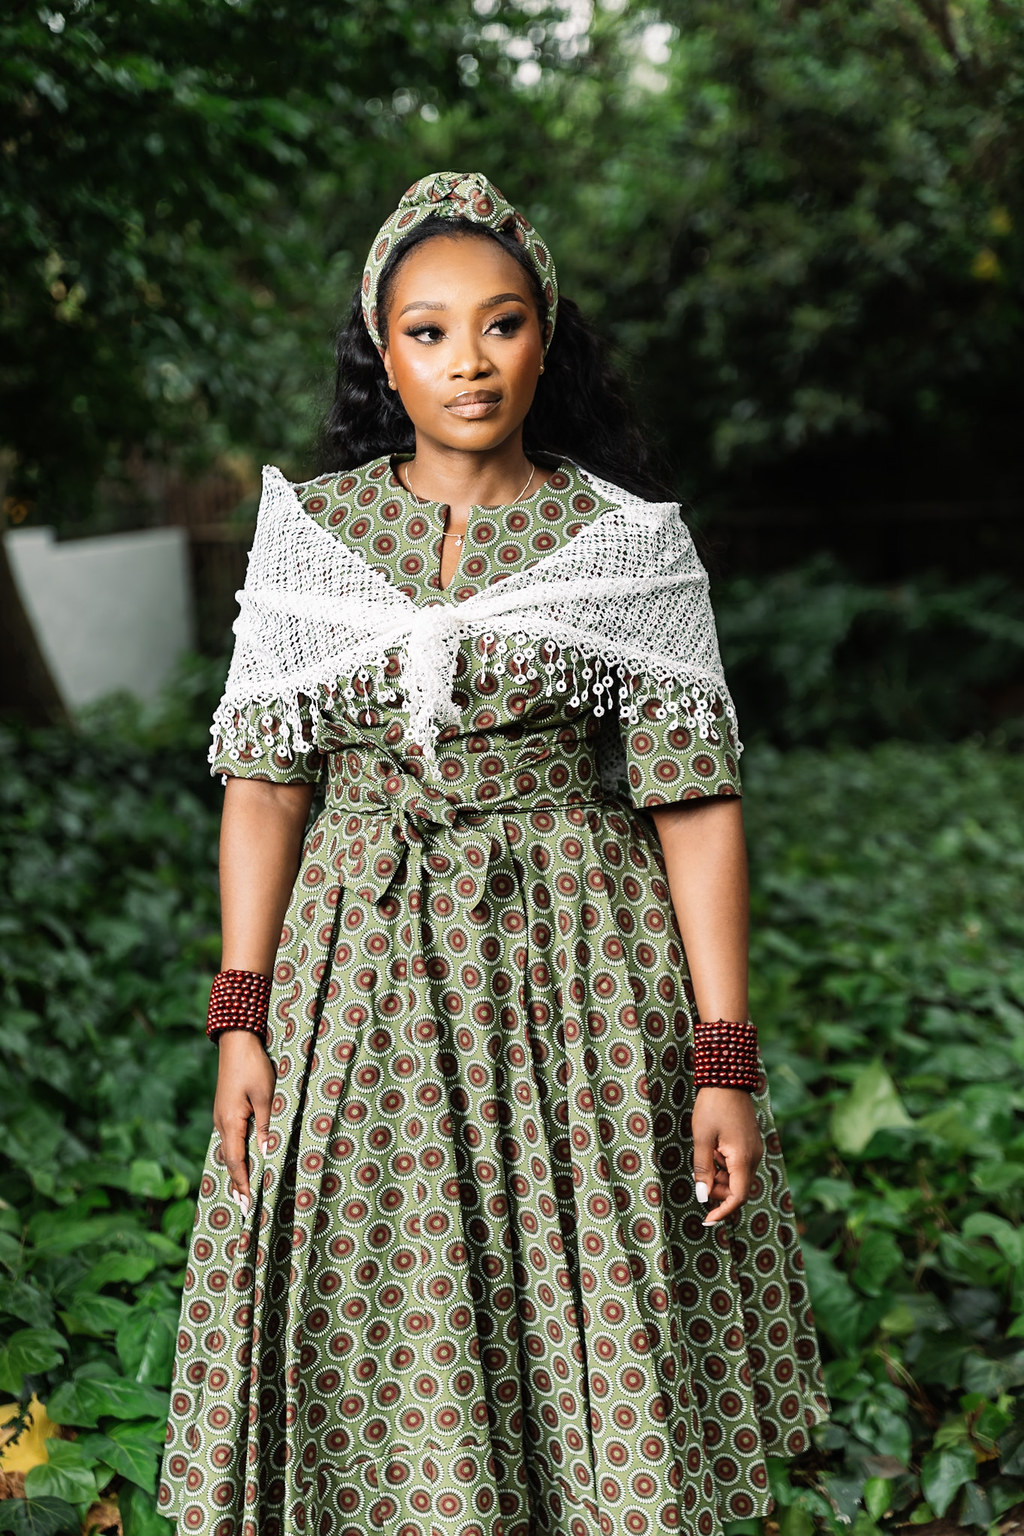
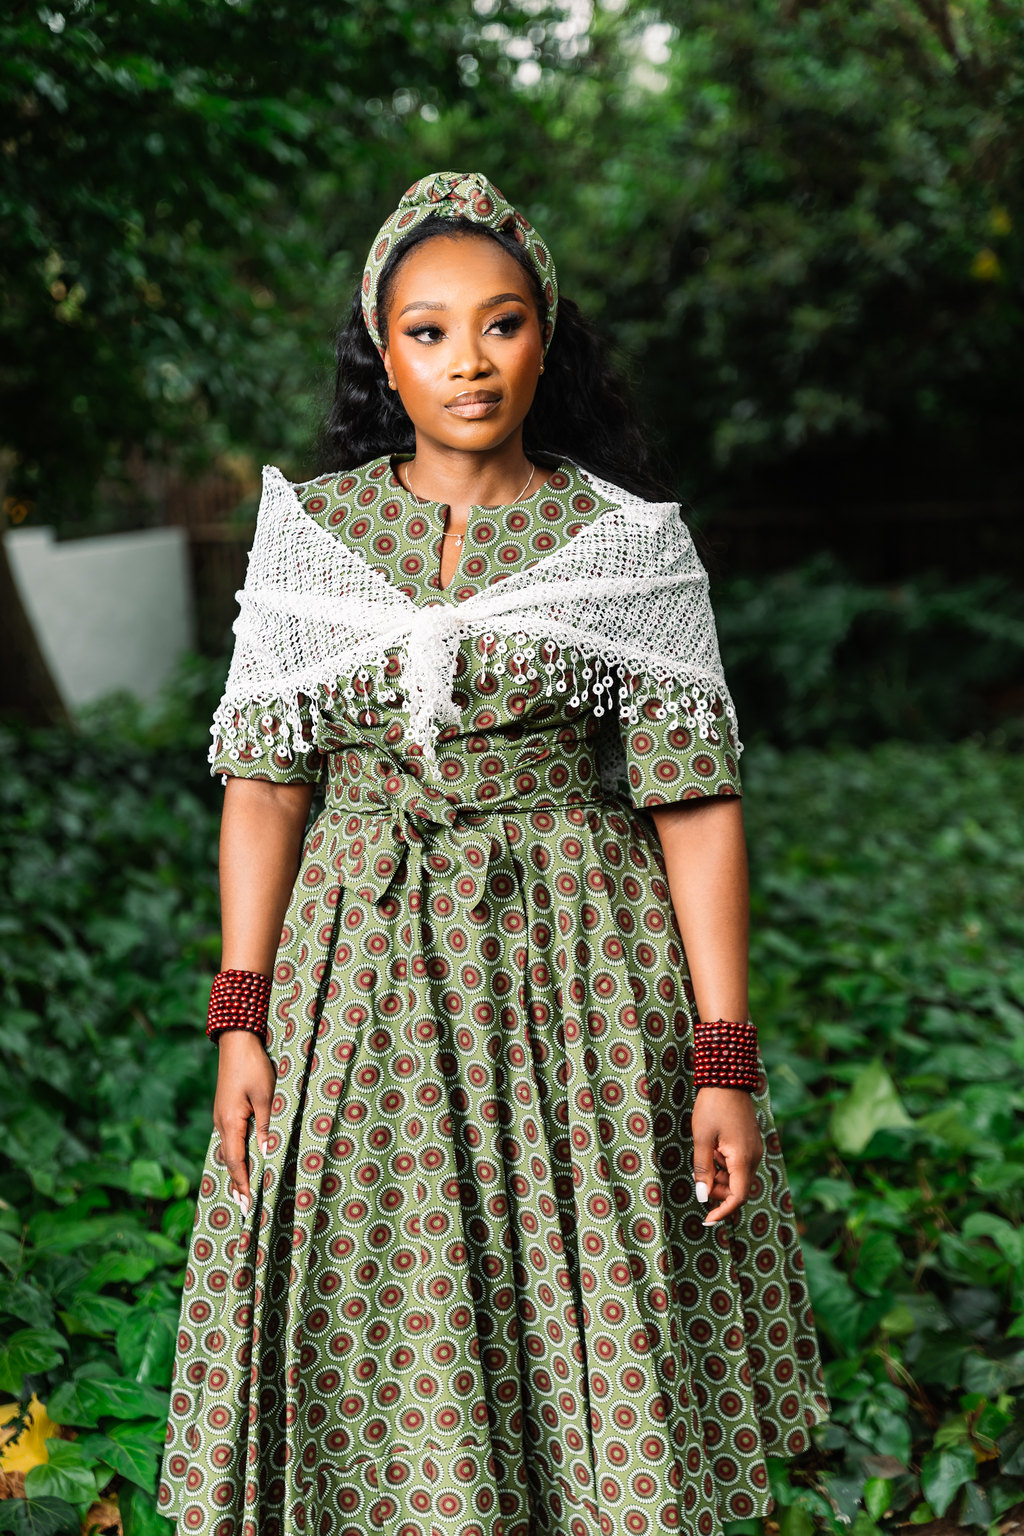
Lobola: swap in 2400px photos, expand to 9 images (#6)
Replaces the earlier 1365px lobola set with 2400px exports. Hero gets 4
lobola slides, home gallery 5, Portfolio Lobola category all 9 with
responsive srcSet in the grid and full size in the lightbox.

Claude-Session: https://claude.ai/code/session_01T6UXqWZghMsq181AYbd4ps

diff --git a/src/pages/Home.jsx b/src/pages/Home.jsx
@@ -43,41 +43,44 @@ const local = (name, widths) => ({
 const heroSlides = [
   { ...local('portrait-sportscar', [800, 1400, 2400]), alt: 'Portrait of a young man in a suit seated in a blue sports car', label: 'Portraits', pos: '50% 40%' },
   { ...w2('22e3962a0016a59371959df425b02d38'), alt: 'Bride and groom sharing a kiss at their wedding', label: 'Weddings', pos: '50% 30%' },
-  { ...local('lobola-shweshwe-portrait', [640, 1024, 1365]), alt: 'Lobola portrait in a green shweshwe dress, white lace shawl and matching headwrap', label: 'Lobola', pos: '50% 22%' },
+  { ...local('lobola-portrait-hands', [640, 1024, 1600]), alt: 'Lobola portrait in a green shweshwe dress, white lace shawl and wooden bead cuffs', label: 'Lobola', pos: '50% 24%' },
   { ...px('4c7e470f347219005082063e353df3c6'), alt: 'Portrait in a green dress with butterflies in her hair', label: 'Portraits', pos: '50% 48%' },
   { ...w1('dee9e86bd1d00cf1ab65492d079d2dc1'), alt: 'Bride in her gown and veil on the wedding morning', label: 'Weddings', pos: '50% 22%' },
   { ...local('matric-couple-black', [640, 1100, 1714]), alt: 'Matric dance couple at golden hour, she in a black off-shoulder gown', label: 'Matric Dance', pos: '50% 10%' },
+  { ...local('lobola-couple-embrace', [640, 1024, 1465]), alt: 'Couple embracing under a bottlebrush tree at their lobola', label: 'Lobola', pos: '50% 22%' },
   { ...w1('7595be4ca74f9ee38dd32ef7822ad8bd'), alt: 'Bride reading her letter on the wedding morning', label: 'Weddings', pos: '50% 38%' },
-  { ...local('lobola-couple', [640, 1024, 1365]), alt: 'Couple at their lobola celebration, she in a green shweshwe dress', label: 'Lobola', pos: '50% 18%' },
   { ...px('8b064709835a34b21aba22f4a48f292b'), alt: 'Portrait in dramatic natural light', label: 'Portraits', pos: '50% 43%' },
   { ...w1('11bc9e3fd04edffa0e480016316e2456'), alt: 'Bride putting on her earrings', label: 'Weddings', pos: '50% 24%' },
+  { ...local('lobola-family-laughing', [640, 1024, 1661]), alt: 'Laughing with family at the lobola, an elder in red and blue traditional dress', label: 'Lobola', pos: '50% 20%' },
   { ...local('matric-black-gown', [640, 1100, 1714]), alt: 'Matric dance portrait in a beaded black gown, seated', label: 'Matric Dance', pos: '50% 21%' },
   { ...px('edc40b2fae11499f30bcac47d2d9a565'), alt: 'Backlit portrait in the park at golden hour', label: 'Portraits', pos: '50% 37%' },
-  { ...local('lobola-shweshwe-standing', [640, 1024, 1365]), alt: 'Lobola portrait in a green shweshwe dress among the trees', label: 'Lobola', pos: '50% 20%' },
+  { ...local('lobola-shweshwe-standing', [640, 1024, 1600]), alt: 'Lobola portrait in a green shweshwe dress among the trees', label: 'Lobola', pos: '50% 20%' },
 ];
 
 const work = [
   { ...w2('ef10b35cf9800c88aa5d8356d84a570f'), alt: 'Bride in her full wedding gown', cat: 'Weddings' },
+  { ...local('lobola-portrait-hands', [640, 1024, 1600]), alt: 'Lobola portrait in a green shweshwe dress, white lace shawl and wooden bead cuffs', cat: 'Lobola', ratio: '1600 / 2400' },
   { src: `${F}f17a7f633_m4.jpg`, alt: 'Matric dance portrait, beaded gown with corset back', cat: 'Matric Dance' },
-  { ...local('lobola-shweshwe-portrait', [640, 1024, 1365]), alt: 'Lobola portrait in a green shweshwe dress, white lace shawl and matching headwrap', cat: 'Lobola', ratio: '1365 / 2048' },
   { src: `${M}d0c463f82_DSC_4127.jpg`, alt: 'Corporate portrait in a luxury interior', cat: 'Corporate' },
   { src: `${M}922435be1_DSC_4228.jpg`, alt: 'Graduation portrait', cat: 'Graduations' },
+  { ...local('lobola-couple-hands', [640, 1024, 1551]), alt: 'Couple holding hands on the lawn at their lobola', cat: 'Lobola', ratio: '1551 / 2400' },
   { ...px('fa1a43cc250efd88003bc5da98382de8'), alt: 'Expressive individual portrait', cat: 'Portraits' },
   { ...local('portrait-sportscar', [800, 1400, 2400]), alt: 'Portrait of a young man in a suit seated in a blue sports car', cat: 'Portraits', ratio: '2576 / 1714' },
   { src: `${F}ea0215502_m8.jpg`, alt: 'Matric dance couple overlooking the lake at sunset', cat: 'Matric Dance' },
   { ...local('matric-couple-black', [640, 1100, 1714]), alt: 'Matric dance couple at golden hour, she in a black off-shoulder gown', cat: 'Matric Dance', ratio: '1714 / 2576' },
   { ...local('matric-black-gown', [640, 1100, 1714]), alt: 'Matric dance portrait in a beaded black gown, seated', cat: 'Matric Dance', ratio: '1714 / 2576' },
-  { ...local('lobola-couple', [640, 1024, 1365]), alt: 'Couple at their lobola celebration, she in a green shweshwe dress', cat: 'Lobola', ratio: '1365 / 2048' },
   { ...px('ba20179241b13dc570b3d7c663e22bf5'), alt: 'Candid lifestyle portrait', cat: 'Portraits' },
+  { ...local('lobola-family-laughing', [640, 1024, 1661]), alt: 'Laughing with family at the lobola, an elder in red and blue traditional dress', cat: 'Lobola', ratio: '1661 / 2400' },
   { ...px('fde31b87e7a08b619d812341fa6ee77d'), alt: 'Seated portrait in a green dress', cat: 'Portraits' },
   { ...px('fc208e0a9a611c89ddb44428f0816e80'), alt: 'Full-length portrait in a green dress on the lawn', cat: 'Portraits' },
   { ...px('c9a5b988d05edf52676ed4195442e3f9'), alt: 'Thoughtful portrait with butterflies in her hair', cat: 'Portraits' },
   { ...px('edc40b2fae11499f30bcac47d2d9a565'), alt: 'Backlit portrait in the park at golden hour', cat: 'Portraits' },
-  { ...local('lobola-shweshwe-standing', [640, 1024, 1365]), alt: 'Lobola portrait in a green shweshwe dress among the trees', cat: 'Lobola', ratio: '1365 / 2048' },
   { ...w2('5be27fdc4bf37b0e4e76c80714385d2b'), alt: 'Bride and groom walking together', cat: 'Weddings' },
+  { ...local('lobola-couple-embrace', [640, 1024, 1465]), alt: 'Couple embracing under a bottlebrush tree at their lobola', cat: 'Lobola', ratio: '1465 / 2400' },
   { ...w1('d416537229004fc4ae8c488a62b7f93a'), alt: 'Bride under her veil', cat: 'Weddings', ratio: '1600 / 2450' },
   { ...w1('cb9e044827d97b4540114584471caf95'), alt: 'Groom adjusting his bow tie', cat: 'Weddings', ratio: '1600 / 2820' },
   { ...w1('ac6e9df0f74c8dbc38e4dbc4b8bc8bd9'), alt: 'Bride in her robe on the wedding morning', cat: 'Weddings' },
+  { ...local('lobola-portrait-smile', [640, 1024, 1600]), alt: 'Close lobola portrait, hand on her shoulder, red bead cuffs', cat: 'Lobola', ratio: '1600 / 2400' },
   { ...w2('762b97c477d265fb8214dec56617e560'), alt: 'Bride and groom outdoors on their wedding day', cat: 'Weddings' },
   { src: `${M}b6065684a_DSC_4113.jpg`, alt: 'Corporate portrait of a man in a navy suit', cat: 'Corporate' },
   { src: `${M}7dbd77260_DSC_4354.jpg`, alt: 'Graduation portrait outdoors', cat: 'Graduations' },
@@ -88,7 +91,7 @@ const filters = ['All', 'Weddings', 'Lobola', 'Portraits', 'Corporate', 'Graduat
 // Services index: one photo per service for the cursor-following preview
 const services = [
   { path: '/wedding-photographer-johannesburg', label: 'Weddings', tag: 'Photo + film', blurb: 'Full-day stills, drone aerials and a behind-the-scenes reel, in one consistent style.', ...w2('ef10b35cf9800c88aa5d8356d84a570f'), pos: '50% 20%' },
-  { path: '/traditional-wedding-photographer', label: 'Traditional & Lobola', tag: 'Ceremonies', blurb: 'Lobola, umembeso and umabo covered with respect for the protocol and the families.', ...local('lobola-shweshwe-portrait', [640, 1024, 1365]), pos: '50% 22%' },
+  { path: '/traditional-wedding-photographer', label: 'Traditional & Lobola', tag: 'Ceremonies', blurb: 'Lobola, umembeso and umabo covered with respect for the protocol and the families.', ...local('lobola-portrait-hands', [640, 1024, 1600]), pos: '50% 24%' },
   { path: '/matric-dance-photographer', label: 'Matric Dance', tag: 'Portraits', blurb: 'Prep, the red-carpet arrival and the golden-hour portraits you will keep forever.', ...local('matric-couple-black', [640, 1100, 1714]), pos: '50% 15%' },
   { path: '/graduation-photoshoot-johannesburg', label: 'Graduations', tag: 'Campus + studio', blurb: 'Wits, UJ, UP and UNISA grads, on campus, in studio or in the golden hour.', src: `${M}922435be1_DSC_4228.jpg`, pos: '50% 20%' },
   { path: '/birthday-photoshoot-johannesburg', label: 'Birthdays', tag: 'Studio', blurb: '21sts, 30ths, umemulo and every milestone, styled from classy to editorial.', ...px('fa1a43cc250efd88003bc5da98382de8'), pos: '50% 30%' },

diff --git a/src/pages/Portfolio.jsx b/src/pages/Portfolio.jsx
@@ -96,9 +96,15 @@ const placeholderItems = [
   { id: 'h1', category: 'Matric Dance', size: 'large', url: '/images/home/matric-couple-black-1714.jpg', alt: 'Matric dance couple at golden hour, she in a black off-shoulder gown' },
   { id: 'h2', category: 'Matric Dance', size: 'small', url: '/images/home/matric-black-gown-1100.jpg', alt: 'Matric dance portrait in a beaded black gown, seated' },
   // Lobola
-  { id: 'l1', category: 'Lobola', size: 'large', url: '/images/home/lobola-shweshwe-portrait-1365.jpg', alt: 'Lobola portrait in a green shweshwe dress, white lace shawl and matching headwrap' },
-  { id: 'l2', category: 'Lobola', size: 'large', url: '/images/home/lobola-shweshwe-standing-1365.jpg', alt: 'Lobola portrait in a green shweshwe dress among the trees' },
-  { id: 'l3', category: 'Lobola', size: 'large', url: '/images/home/lobola-couple-1365.jpg', alt: 'Couple at their lobola celebration, she in a green shweshwe dress' },
+  { id: 'l1', category: 'Lobola', size: 'large', url: '/images/home/lobola-portrait-hands-1600.jpg', srcSet: '/images/home/lobola-portrait-hands-640.jpg 640w, /images/home/lobola-portrait-hands-1024.jpg 1024w, /images/home/lobola-portrait-hands-1600.jpg 1600w', alt: 'Lobola portrait in a green shweshwe dress, white lace shawl and wooden bead cuffs' },
+  { id: 'l2', category: 'Lobola', size: 'large', url: '/images/home/lobola-couple-embrace-1465.jpg', srcSet: '/images/home/lobola-couple-embrace-640.jpg 640w, /images/home/lobola-couple-embrace-1024.jpg 1024w, /images/home/lobola-couple-embrace-1465.jpg 1465w', alt: 'Couple embracing under a bottlebrush tree at their lobola' },
+  { id: 'l3', category: 'Lobola', size: 'large', url: '/images/home/lobola-family-laughing-1661.jpg', srcSet: '/images/home/lobola-family-laughing-640.jpg 640w, /images/home/lobola-family-laughing-1024.jpg 1024w, /images/home/lobola-family-laughing-1661.jpg 1661w', alt: 'Laughing with family at the lobola, an elder in red and blue traditional dress' },
+  { id: 'l4', category: 'Lobola', size: 'large', url: '/images/home/lobola-full-length-1410.jpg', srcSet: '/images/home/lobola-full-length-640.jpg 640w, /images/home/lobola-full-length-1024.jpg 1024w, /images/home/lobola-full-length-1410.jpg 1410w', alt: 'Full-length lobola portrait in a green shweshwe dress and lace shawl' },
+  { id: 'l5', category: 'Lobola', size: 'large', url: '/images/home/lobola-couple-standing-1416.jpg', srcSet: '/images/home/lobola-couple-standing-640.jpg 640w, /images/home/lobola-couple-standing-1024.jpg 1024w, /images/home/lobola-couple-standing-1416.jpg 1416w', alt: 'Couple at their lobola celebration, she in a green shweshwe dress' },
+  { id: 'l6', category: 'Lobola', size: 'large', url: '/images/home/lobola-portrait-smile-1600.jpg', srcSet: '/images/home/lobola-portrait-smile-640.jpg 640w, /images/home/lobola-portrait-smile-1024.jpg 1024w, /images/home/lobola-portrait-smile-1600.jpg 1600w', alt: 'Close lobola portrait, hand on her shoulder, red bead cuffs' },
+  { id: 'l7', category: 'Lobola', size: 'large', url: '/images/home/lobola-couple-hands-1551.jpg', srcSet: '/images/home/lobola-couple-hands-640.jpg 640w, /images/home/lobola-couple-hands-1024.jpg 1024w, /images/home/lobola-couple-hands-1551.jpg 1551w', alt: 'Couple holding hands on the lawn at their lobola' },
+  { id: 'l8', category: 'Lobola', size: 'large', url: '/images/home/lobola-shweshwe-standing-1600.jpg', srcSet: '/images/home/lobola-shweshwe-standing-640.jpg 640w, /images/home/lobola-shweshwe-standing-1024.jpg 1024w, /images/home/lobola-shweshwe-standing-1600.jpg 1600w', alt: 'Lobola portrait in a green shweshwe dress among the trees' },
+  { id: 'l9', category: 'Lobola', size: 'large', url: '/images/home/lobola-couple-smiling-1549.jpg', srcSet: '/images/home/lobola-couple-smiling-640.jpg 640w, /images/home/lobola-couple-smiling-1024.jpg 1024w, /images/home/lobola-couple-smiling-1549.jpg 1549w', alt: 'Smiling couple at their lobola, his arm around her shoulders' },
   { id: 'h3', category: 'Portraits', size: 'large', url: '/images/home/portrait-sportscar-1400.jpg', alt: 'Portrait of a young man in a suit seated in a blue sports car' },
 ];
 
@@ -177,6 +183,8 @@ export default function Portfolio() {
                 {item.url ? (
                   <img
                     src={item.url}
+                    srcSet={item.srcSet}
+                    sizes={item.srcSet ? '(min-width: 768px) 33vw, 50vw' : undefined}
                     alt={item.alt || item.category}
                     className="w-full h-full object-cover block transition-transform duration-700 group-hover:scale-110"
                     style={{ aspectRatio: item.size === 'large' ? '2/3' : '3/4' }}
